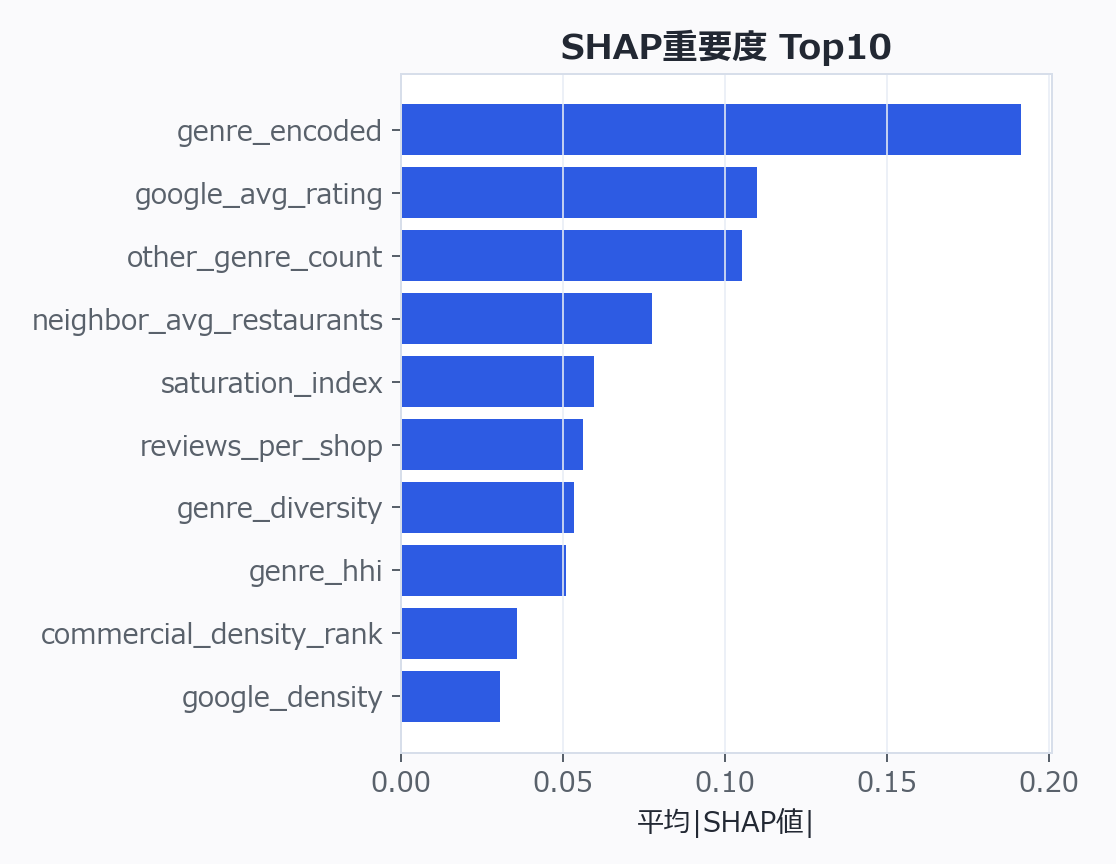
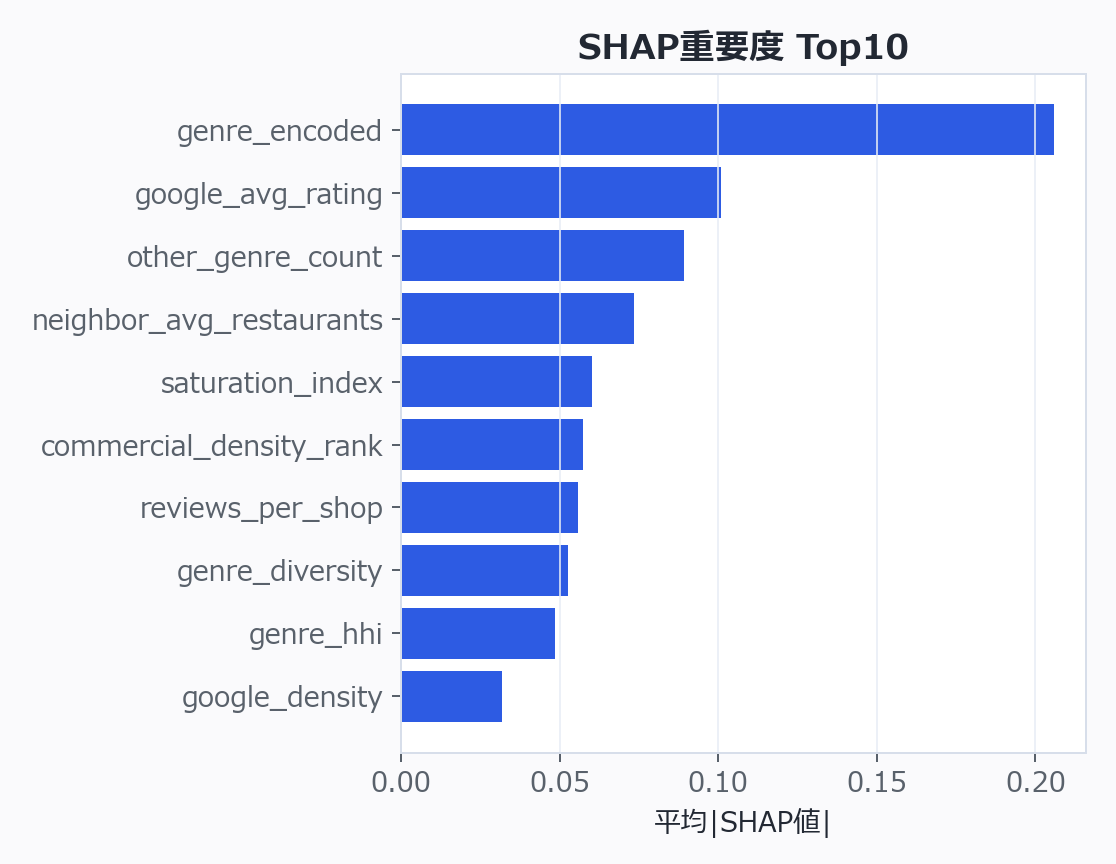
fix: SHAPスライドの解釈を実際のSHAP値に合わせて修正
- ジャンル種別(0.206)、Google評価(0.101)、他ジャンル店舗数(0.089)に更新
- 人口系がTop10圏外であることを明記

diff --git a/scripts/generate_pptx.py b/scripts/generate_pptx.py
@@ -803,9 +803,9 @@ def build_shap_slide(prs: Presentation) -> None:
         Inches(4.1),
         Inches(2.0),
         [
-            "ジャンル種別（SHAP=0.196）と他ジャンル店舗数（0.109）が上位",
-            "人口系特徴量は含めているが重要度は低い（下位に位置）",
-            "→ 「人口が多い」より「商業集積がある」方が飲食店数を決める",
+            "ジャンル種別（0.206）が圧倒的に重要 → ジャンルによって店舗数の水準が大きく異なる",
+            "Google評価（0.101）と他ジャンル店舗数（0.089）が続く → 評判と商業集積が鍵",
+            "人口系特徴量はTop10圏外 → 「人口が多い」より「商業集積がある」方が効く",
         ],
         font_size=15,
         bullet=True,
